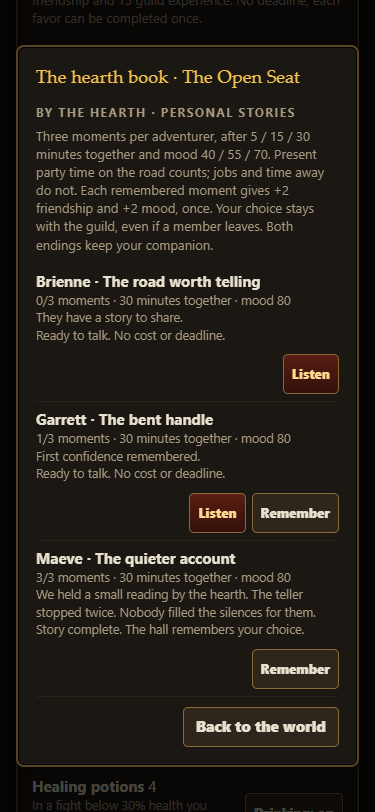
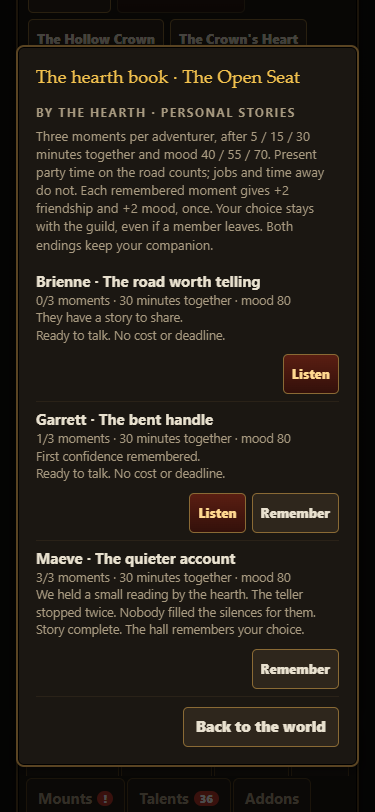
Tell personal stories only in the physical hall; keep tabs as records

diff --git a/games/realmbound/js/27-member-stories.js b/games/realmbound/js/27-member-stories.js
@@ -86,7 +86,7 @@ function memberStoryProblem(key) {
   return memberStoryMeetingProblem(key);
 }
 function memberStoryMeetingProblem(key) {
-  if (!H() || !inTown() || H().dun) return 'Meet in a town or the guild hall.';
+  if (!H() || !inTown() || !TOWN.inside || H().dun) return 'Meet by the hearth in the guild hall.';
   if (ROSTER.jobOf(key) || memberRaiding(key)) return 'Return this member from their job or raid first.';
   if (H().mode === 'auto') return 'Switch to Focus to choose this story yourself.';
   return '';
@@ -123,10 +123,10 @@ function playMemberStory(key, replay) {
     if (!replay && finishMemberStory(key, expected, choice)) renderTab(true);
     if (book) openMemberStoryBook();
   }, { choices });
-  C.lastInput = C.run; TOWN.auto = null; RTALK.memberStory = true; RTALK.memberStoryKey = key; SCN.el.classList.add('member-story-dialogue'); SCN.el.scrollIntoView({ block: 'center' }); return true;
+  C.lastInput = C.run; TOWN.auto = null; TOWN.storyGuest = key; RTALK.memberStory = true; RTALK.memberStoryKey = key; SCN.el.classList.add('member-story-dialogue'); SCN.el.scrollIntoView({ block: 'center' }); return true;
 }
 function openMemberStoryBook() {
-  if (!H() || !guildOn() || RTALK) return false;
+  if (!H() || !guildOn() || RTALK || !inTown() || !TOWN.inside || H().dun) return false;
   C.lastInput = C.run; TOWN.auto = null;
   openModal('memberstories', '<h3>The hearth book · ' + G().name + '</h3>' + memberStoriesHTML() + '<div class="mfoot"><button class="btn alt" data-act="close">Back to the world</button></div>'); return true;
 }
@@ -137,6 +137,16 @@ function memberStoriesKey() {
   return guildOn() ? Object.keys(G().members).map(key => {
     const state = memberStoryState(key); return [key, state.done, state.choice, Math.floor(state.seconds / 60), memberStoryProblem(key)].join(':');
   }).join('|') : '';
+}
+function memberStoryRecordsHTML() {
+  if (!guildOn()) return '';
+  const records = Object.entries(G().stories || {}).filter(([key, state]) => state.done > 0).map(([key, state]) => ({ state, n: advNpc(key) })).filter(({ n }) => n && MEMBER_STORIES[n.name]);
+  if (!records.length) return '<h4>Stories remembered</h4><p class="meta">No personal moments recorded yet. Meet your companions by the guild hearth.</p>';
+  return '<h4>Stories remembered</h4>' + records.map(({ state, n }) => {
+    const story = MEMBER_STORIES[n.name];
+    const memory = state.done >= 3 ? story[5 + state.choice] : state.done >= 2 ? 'You chose: ' + story[3 + state.choice] + '.' : 'Shared a confidence: ' + story[1];
+    return '<div class="rowl member-record"><div class="l"><b>' + n.name + ' · ' + story[0] + '</b><div class="meta">' + state.done + '/3 moments remembered</div><div class="meta">' + memory + '</div></div></div>';
+  }).join('');
 }
 function memberStoriesHTML() {
   if (!guildOn()) return '';
@@ -150,7 +160,6 @@ function memberStoriesHTML() {
 }
 document.addEventListener('click', e => {
   const el = e.target.closest('[data-act]'); if (!el) return;
-  if (el.dataset.act === 'memberstorybook') openMemberStoryBook();
-  else if (el.dataset.act === 'memberstory') playMemberStory(el.dataset.arg, false);
+  if (el.dataset.act === 'memberstory') playMemberStory(el.dataset.arg, false);
   else if (el.dataset.act === 'membermemory') playMemberStory(el.dataset.arg, true);
 });

diff --git a/games/realmbound/js/22-town.js b/games/realmbound/js/22-town.js
@@ -85,7 +85,9 @@ function townPeople() {
 function hallPeople() {
   const list = [{ id: 'registrar', name: 'Registrar Mott', at: [7, 2], dir: 'down', look: { race: 'human', cls: 'priest', hair: '#d8d8d8' },
     lines: () => [['Registrar Mott', `Welcome home to ${G().name}. Level ${G().level}, ${Object.keys(G().members).length} adventurer${Object.keys(G().members).length === 1 ? '' : 's'} on the roll. The chest holds our supplies; the board, our work.`]] }];
-  Object.keys(G().members || {}).map(k => ({ k, w: workerOf(k) })).filter(x => x.w).slice(0, GUILD_SPOTS.length).forEach(({ k, w }, i) =>
+  const members = Object.keys(G().members || {}).map(k => ({ k, w: workerOf(k) })).filter(x => x.w), seated = members.slice(0, GUILD_SPOTS.length);
+  const guest = members.find(x => x.k === TOWN.storyGuest); if (guest && !seated.some(x => x.k === guest.k)) seated[seated.length - 1] = guest;
+  seated.forEach(({ k, w }, i) =>
     list.push({ id: 'member', key: k, name: w.name, at: GUILD_SPOTS[i], dir: i % 2 ? 'left' : 'right', look: { race: w.n.race, cls: w.cls, hair: w.n.hair || '#6b4423' } }));
   return list;
 }
@@ -99,7 +101,7 @@ const TOWN_WALK = World.walker({
 });
 function townActive() { const h = H(); return !!(h && C && !h.dun && C.phase === 'intown' && PW > 0); }
 function townEnter() {
-  TOWN.inside = false; const [x, y, d] = TOWN.map.start; TOWN_WALK.place(x, y, d); TOWN.auto = null;
+  TOWN.inside = false; TOWN.storyGuest = null; const [x, y, d] = TOWN.map.start; TOWN_WALK.place(x, y, d); TOWN.auto = null;
   if (aiOn()) { C.townT = Math.max(C.townT || 0, 25); TOWN.auto = 'smith'; }
 }
 function townExit() {
@@ -129,7 +131,7 @@ function townTalk(n) {
   if (n.isMule) { SCN.play([['Pell', 'That\'s Brisket. He doesn\'t talk, which makes him the best listener in three worlds.']], null); return; }
   const h = H();
   if (n.id === 'member') { memberTalk(n.key); return; }
-  if (n.id === 'registrar') { const hero = H(); SCN.play(n.lines(), choice => { if (choice === 0 && H() === hero) openMemberStoryBook(); }, { choices: ['Open the hearth book', 'Another time'] }); return; }
+  if (n.id === 'registrar') { const hero = H(); SCN.play(n.lines(), choice => { SCN.el.classList.remove('member-story-dialogue'); if (choice === 0 && H() === hero) openMemberStoryBook(); }, { choices: ['Open the hearth book', 'Another time'] }); RTALK.memberStory = true; C.lastInput = C.run; TOWN.auto = null; SCN.el.classList.add('member-story-dialogue'); SCN.el.scrollIntoView({ block: 'center' }); return; }
   if (n.id === 'giver') { const q = (QUESTS[h.zone] || []).find(q => qState(q) === 'avail');
     if (q && h.quests.active.length < 3) { questOffer(q.id); return; }
     SCN.play([[n.name, q ? 'Your pack looks full already. Finish what you carry first, then come and see me.' : 'Nothing new on the board for you today. The road is quieter for your work.']], null); return; }

diff --git a/games/realmbound/js/21-guild.js b/games/realmbound/js/21-guild.js
@@ -160,7 +160,7 @@ function guildHTML() {
       <div class="aff" title="Mood ${mood}"><i style="width:${mood}%;background:${mood >= 70 ? '#7cf08a' : mood >= 30 ? '#f2c14e' : '#e0483e'}"></i></div></div>
       <div class="r"><button class="btn sm alt" data-act="guilddismiss" data-arg="${k}" ${memberRaiding(k) ? 'disabled title="Return from the raid before dismissing this member"' : ''}>Dismiss</button></div></div>`; }).join('') : '<p class="meta">No adventurers yet. Invite companions who are your Friends.</p>';
   if (cand.length) o += `<p class="meta" style="margin-top:6px">Could join: ${cand.map(n => `<button class="btn sm" data-act="guildinvite" data-arg="${n.id}">Invite ${n.name}</button>`).join(' ')}</p>`;
-  return o + memberRequestsHTML() + '<p class="meta">Meet your adventurers by the hearth, or open their book over the world. <button class="btn sm alt" data-act="memberstorybook">Open the hearth book</button></p>';
+  return o + memberRequestsHTML() + memberStoryRecordsHTML();
 }
 document.addEventListener('click', e => {
   const el = e.target.closest('[data-act]'); if (!el || !H()) return; const a = el.dataset.act, arg = el.dataset.arg;

diff --git a/docs/realmbound-member-stories.md b/docs/realmbound-member-stories.md
@@ -9,7 +9,7 @@ Each of the 32 faction adventurers has three short moments: a confidence, a deci
 - Become Friends with an adventurer and invite them to a founded guild. Their generated race, class, hair and personality remain unchanged. Portraits use that member's own faction/race, class colour and hair, even when another hero listens.
 - First confidence: 5 cumulative minutes together and mood 40. Decision: 15 minutes and mood 55. Aftermath: 30 minutes and mood 70. The hearth book explains missing conditions, current minutes, mood and completed moments.
 - Only visible, simulated party time on the road (seeking, fighting, resting or collecting loot) counts. A fallen companion, an absent member, alternate player characters, town time, conversations, jobs and offline gains do not. Guild companions visiting another hero's raid count under their owner-qualified key. Time caps at 30 minutes; reloads preserve it.
-- Meet in any town or the walkable guild hall, returning them from a job or saved raid first. The story index is a hearth book opened over the world, not another information panel: ask Registrar Mott for it in the hall, or use the legacy Guild tab shortcut while Claude rebuilds that screen. Use Focus to listen. A ready hall member speaks their personal story before their favor; the Guild tab keeps the supply favor independently available.
+- Meet in the physical guild hall, returning them from a job or saved raid first. Members speak in the world through shared portrait scenes. Ask Registrar Mott for the hearth book there; it is opened over the hall and cannot be opened from an outside-town menu. The Guild tab contains only records of already-heard moments, never future story text or conversation buttons. Use Focus to listen. A ready hall member speaks their personal story before their favor; the Guild tab keeps the supply favor independently available.
 - Skip reveals the choices; Another time grants nothing. Stories pause game time, and the shared dialogue adapter prevents Auto from choosing even if Auto is toggled after opening the scene.
 - Each remembered moment gives +2 affinity and +2 mood once. No bank supplies, money, gear, quest XP or guild XP are granted. There is no deadline, random failure, repeat reward or compulsory chore.
 - Remember replays completed lines and the chosen path without changing progress. Unavailable replay buttons explain where to meet. Hero switching, booting and dismissal clear a pending scene without choosing.
@@ -18,9 +18,11 @@ Each of the 32 faction adventurers has three short moments: a confidence, a deci
 
 Optional account ledger: S.guild.stories[memberKey] = {seconds, done, choice}. The member key is the existing adv:<heroId>:<npcId>; identically named companions on different heroes never share progress. It stays when a member leaves and rejoins. Existing founded-guild saves receive an empty ledger; malformed optional fields are clamped, and a missing decision returns to the choice instead of inventing an ending. New guilds start empty. Existing favors, jobs, characters, dungeon records and rewards keep their state.
 
+The hall has eight seats; when the book calls a member from the larger roster, they take an existing seat beside the hearth. This is a runtime guest, not a new save field. Their portrait and in-world person use the same generated identity. Guild records survive that member leaving, but replay and new conversations still require meeting in the hall.
+
 Reading the book pauses game time; choosing Listen closes it to reveal the world portrait. Deferring, finishing and replaying return to the book when that is where you started.
 
-Story data and helpers live in js/27-member-stories.js. Small hooks load it, migrate the optional ledger, tick present party time, invalidate the Guild shortcut cache, open hall conversations, pause/clear scenes, and protect choices from Auto. Phone-only story-row styling leaves full width for text and puts buttons beneath it. Opening scrolls the portrait into view without animation; while a story is open, the phone scene grows to fit the full portrait and choices.
+Story data and helpers live in js/27-member-stories.js. Small hooks load it, migrate the optional ledger, tick present party time, invalidate the memory-record cache, open hall conversations, pause/clear scenes, and protect choices from Auto. Phone-only story-row styling leaves full width for text and puts buttons beneath it. Opening scrolls the portrait into view without animation; while a story is open, the phone scene grows to fit the full portrait and choices.
 
 ## Canon arcs
 
@@ -65,7 +67,7 @@ The existing lore hooks now have playable personal accounts, still independent o
 
 Browser scenario coverage exercises all 32 arcs, both outcomes, every gate, defer/Skip/replay, duplicate and stale responses, actual combat-step time, hidden tabs, remote guild raiders, job/raid reservations, dismissal/rejoin, legacy/malformed saves and real save/load. Isolated Chrome UI checks at 375×812, 1366×768, 1920×1080 and 3440×1440 click the actual story buttons, toggle Auto while choices wait, finish an arc, reload it and replay it. Prepared level-45 guild fixtures accelerate these checks; this is not a human pacing playtest.
 
-All seven pages pass: Realmbound 6,681, Wildbond 1,254, Starfall 48, shared sound 21, offline 15, Diamond 83 and Otherworld 38. No uncaught page errors.
+All seven pages pass: Realmbound 6,683, Wildbond 1,254, Starfall 48, shared sound 21, offline 15, Diamond 83 and Otherworld 38. No uncaught page errors.
 
 Run the repository's serve.ps1 and all seven pages. Codex used an in-memory port 8766 copy of that same script so Claude's 8765 server and saves stayed untouched; isolated browser requests for localhost:8765 were routed to this checkout. Phone/ultrawide before-and-after images are in docs/screenshots/realmbound-member-stories/.
 

diff --git a/docs/realmbound-40-60.md b/docs/realmbound-40-60.md
@@ -331,4 +331,4 @@ Full class/journey and endpoint tables, raw records, the reproducible browser ru
 
 ## Personal stories as built (R4, Codex, 2026-10-08)
 
-All 32 named adventurers have three moments gated by shared present-party time (5/15/30 minutes), mood (40/55/70) and Friend affinity. Meet in town or the hall in Focus, with the member returned from a job or raid. A remembered decision produces one of two narrative aftermaths, visible in the hearth book and replayable without rewards. Each new moment gives +2 affinity and +2 mood once. Time, completed beats and choices live in the optional account ledger S.guild.stories, preserved across reloads, heroes and dismissal/rejoining; offline/jobs do not accrue story time. Supply favors remain separate and available. No story loss, gear, bank cost, XP or release bump. Full rules, arcs and validation: [realmbound-member-stories.md](realmbound-member-stories.md).
+All 32 named adventurers have three moments gated by shared present-party time (5/15/30 minutes), mood (40/55/70) and Friend affinity. Meet by the guild hearth in Focus, with the member returned from a job or raid. A remembered decision produces one of two narrative aftermaths, visible in the hearth book and replayable without rewards. Each new moment gives +2 affinity and +2 mood once. Time, completed beats and choices live in the optional account ledger S.guild.stories, preserved across reloads, heroes and dismissal/rejoining; offline/jobs do not accrue story time. Supply favors remain separate and available. No story loss, gear, bank cost, XP or release bump. Full rules, arcs and validation: [realmbound-member-stories.md](realmbound-member-stories.md).

diff --git a/README.md b/README.md
@@ -39,7 +39,7 @@ Anyone continuing this project (any AI assistant or person): open [START-HERE.md
 
 ## Changelog
 
-- Realmbound (2026-10-08): three personal story moments for every guild adventurer, unlocked by present party time, mood and friendship. Remembered decisions have two lasting narrative outcomes; Auto never chooses them. Old saves, independent supply favors and rejoining members keep their progress. All seven test pages pass (6,681 Realmbound checks); phone, laptop, desktop and ultrawide checked. No version bump; PR #49, docs/realmbound-member-stories.md.
+- Realmbound (2026-10-08): three personal story moments for every guild adventurer, unlocked by present party time, mood and friendship. Remembered decisions have two lasting narrative outcomes; Auto never chooses them. Conversations happen in the physical hall; the Guild tab only records what was heard. Old saves, independent supply favors and rejoining members keep their progress. All seven test pages pass (6,683 Realmbound checks); phone, laptop, desktop and ultrawide checked. No version bump; PR #49, docs/realmbound-member-stories.md.
 
 - Realmbound v1.1.0, onboarding (2026-10-08): a skippable arrival ends on the existing first questgiver, followed by optional contextual guidance for Focus, loot, reward choice, town services and actual companions. Returning saves stay quiet; all seven test pages pass. No version or cache bump; see docs/realmbound-onboarding.md.
 

diff --git a/START-HERE.md b/START-HERE.md
@@ -141,7 +141,7 @@ a default so work never waits.
 
 ## Session log (newest first; one or two lines each)
 
-- 2026-10-08 (Codex): A5/R4 guild member stories ready in PR #49 on codex/realmbound-member-stories: all 32 adventurers have three moments, shared-time/mood gates and two remembered outcomes. All seven pages pass (RB 6,681); 375/1366/1920/3440 UI checked. Saves and favors preserved; no merge/version bump. Next Lane A: A5b Diamond swings you understand.
+- 2026-10-08 (Codex): A5/R4 guild member stories ready in PR #49 on codex/realmbound-member-stories: all 32 adventurers have three moments, shared-time/mood gates and two remembered outcomes. All seven pages pass (RB 6,683); 375/1366/1920/3440 UI checked. World portrait conversations in the hall, with the Guild tab only a record. Saves and favors preserved; no merge/version bump. Next Lane A: A5b Diamond swings you understand.
 
 - 2026-10-08 Claude (PC session, later): Godot trial: the Emberfall Highlands (cliff road from the coast with the Tide Badge; layered
   cliffs, meadow boulders, amber hot springs with steam, drifting sparks; Orsk, Sela, Warden Toren; battles with a highland skyline).
